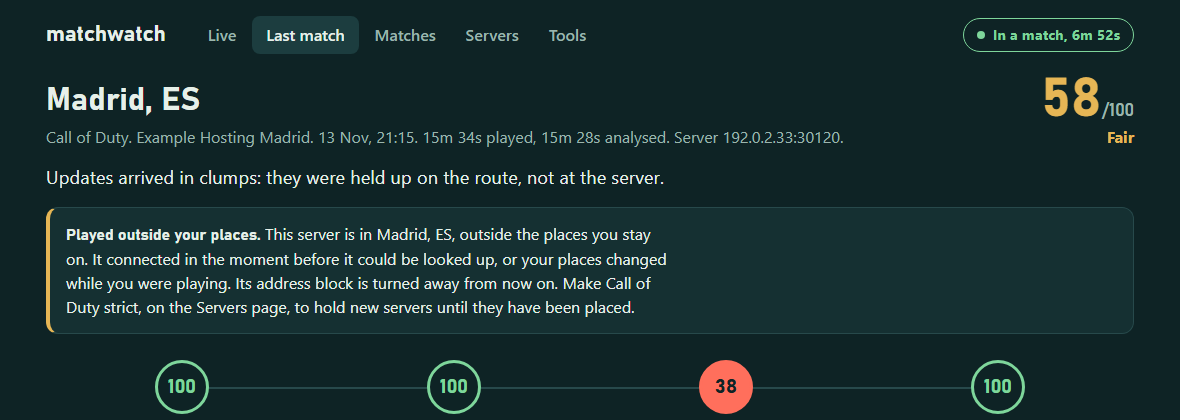
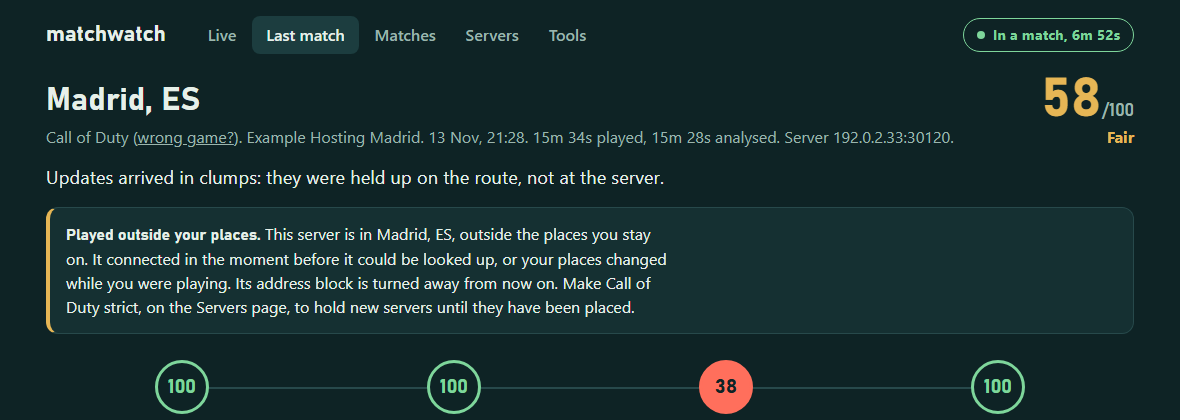
0.34.0: a Wrong game? link on every named match, longer name durations, five minutes as match mode's default wait

Changed region(s): [[0.0915, 0.3095, 0.8237, 0.3405]]

diff --git a/luci-app-matchwatch/htdocs/luci-static/resources/matchwatch/dashboard.js b/luci-app-matchwatch/htdocs/luci-static/resources/matchwatch/dashboard.js
@@ -28,7 +28,7 @@ var page = "", pageArg = "", armed = 0, view = shadow.getElementById("view");
 // another, MatchWatch has been updated under this page: the browser's stored copies of the dashboard
 // files are fetched afresh, which replaces them, and the page reloads itself. Without this an updated
 // router kept showing the old dashboard until the browser happened to let go of it.
-var BUILT = "0.33.0", reloading = false;
+var BUILT = "0.34.0", reloading = false;
 function freshReload() {
 	var urls = {}, go = function () { location.reload(); };
 	try { performance.getEntriesByType("resource").forEach(function (e) { if (/\/matchwatch\/[^?]*\.(js|css)(\?|$)/.test(e.name)) urls[e.name] = 1; }); } catch (e) {}
@@ -540,14 +540,20 @@ function liveLabel(s) {
 function liveGame(s) {
 	var lg = liveLabel(s);
 	if (!lg || !lg.name) return "";
-	if (!sharedLabel(lg.name)) return lg.name + ". ";
+	if (!sharedLabel(lg.name)) return (lg.as || lg.name) + ". ";
 	if (lg.as) return lg.as + ", on " + netWords(lg.name) + ". ";
 	return (/^Steam games/.test(lg.name) ? "A Steam game" : lg.name) + ". ";
 }
 function netWords(label) { return /^Steam games/.test(label) ? "Steam's network" : "a network several games share"; }
 // current: the name this match has now. until: when a name that carries on runs out (0 = never, null = none carrying on)
+// The box for saying which game a match really was.
+// current: the name this match has now. until: when a name that carries on runs out (0 = never, null = none carrying on).
+// For a network several games share it is the only way to know the game, so the box is always shown and the name
+// carries on for a day unless told otherwise. For any other label it is a correction, reached by a small
+// "Wrong game?" link, and it applies to that one match unless the owner asks for longer.
 function gamePick(start, label, current, until) {
-	var box = h("div", { cls: "gamepick" }), used = [], net = netWords(label), hours = 6;
+	var shared = sharedLabel(label), plain = /^Steam games/.test(label) ? "Steam games" : label;
+	var box = h("div", { cls: "gamepick" }), used = [], hours = 0;
 	D.hist.forEach(function (m) { if (m.label === label && m.game && m.game !== label && m.game !== current && used.indexOf(m.game) < 0) used.push(m.game); });
 	var inp = h("input", { type: "text", maxlength: "40", placeholder: "Which game is this?", autocomplete: "off", "aria-label": "The game this match was" });
 	inp.value = current || "";
@@ -557,26 +563,50 @@ function gamePick(start, label, current, until) {
 		api("matchgame", start, "&name=" + v + (hrs === "" || hrs == null ? "" : "&days=" + hrs)).then(function (j) {
 			Array.prototype.forEach.call(box.querySelectorAll("button"), function (b) { b.disabled = false; });
 			toast(j.out || j.error || "That did not work.", !j.ok);
-			if (j.ok) { inp.value = ""; L.gameKey = null; refresh(true); }
+			if (j.ok) { inp.value = ""; L.gameKey = null; L.gameOpen = null; refresh(true); }
 		});
 	};
-	// how long the name carries on to later matches on the same network
-	var spans = [[0, "This match only"], [6, "The next 6 hours"], ["", "Until I change it"]], sbox = h("div", { cls: "choice", role: "group", "aria-label": "Use this name for" });
-	var setSpan = function (v) { hours = v; Array.prototype.forEach.call(sbox.children, function (b) { b.setAttribute("aria-pressed", b.getAttribute("data-h") === String(v) ? "true" : "false"); }); };
+	// how long the name carries on to later matches under the same label
+	var spans = [[0, "This match only"], [24, "1 day"], [720, "1 month"], ["", "Until I change it"]], sbox = h("div", { cls: "choice", role: "group", "aria-label": "Use this name for" }), shint = h("small");
+	var setSpan = function (v) {
+		hours = v;
+		Array.prototype.forEach.call(sbox.children, function (b) { b.setAttribute("aria-pressed", b.getAttribute("data-h") === String(v) ? "true" : "false"); });
+		shint.textContent = v === 0 ? "Only this match is renamed. Your other matches keep the name MatchWatch gives them."
+			: "Every match MatchWatch would file under \"" + plain + "\" is recorded under your name " + (v === "" ? "from now until you change it." : v === 24 ? "for the next day, then it goes back." : "for the next month, then it goes back.");
+	};
 	spans.forEach(function (x) { var b = h("button", { type: "button", text: x[1], "data-h": String(x[0]) }); b.addEventListener("click", function () { setSpan(x[0]); }); sbox.appendChild(b); });
-	setSpan(until === 0 ? "" : 6);
+	setSpan(until === 0 ? "" : shared ? 24 : 0);
 	var save = h("button", { type: "button", cls: current ? "" : "solid", text: current ? "Change" : "Save" });
 	save.addEventListener("click", function () { if (!inp.value.trim()) { inp.focus(); return; } send(inp.value, hours); });
 	inp.addEventListener("keydown", function (e) { if (e.key === "Enter") save.click(); });
 	var row = h("div", { cls: "stayform" }, inp, save);
 	used.slice(0, 4).forEach(function (g) { var b = h("button", { type: "button", text: g }); b.addEventListener("click", function () { send(g, hours); }); row.appendChild(b); });
-	if (current) { var back = h("button", { type: "button", text: "Back to " + (/^Steam games/.test(label) ? "Steam games" : "the shared name") }); back.addEventListener("click", function () { send("", ""); }); row.appendChild(back); }
-	var lasts = until == null ? "" : until === 0 ? " Matches there keep this name until you change it." : " Matches there keep this name until " + when(until) + ", then MatchWatch asks again.";
-	box.appendChild(h("p", { cls: "note" }, current ? h("b", "Recorded as " + current + ". ") : h("b", "Which game is this? "),
-		current ? "It is on " + net + ", which many games use." + lasts : "It is on " + net + ", which many games use, so MatchWatch cannot tell them apart. Until you say, it is filed under \"" + (/^Steam games/.test(label) ? "Steam games" : label) + "\"."));
+	if (current) { var back = h("button", { type: "button", text: "Back to " + plain }); back.addEventListener("click", function () { send("", ""); }); row.appendChild(back); }
+	var lasts = until == null ? "" : until === 0 ? " Matches under that name keep it until you change it." : " Matches under that name keep it until " + when(until) + ".";
+	var why = shared ? "It is on " + netWords(label) + ", which many games use, so MatchWatch cannot tell them apart."
+		: "MatchWatch named it from the server's port, and ports are shared, so it can be wrong.";
+	box.appendChild(h("p", { cls: "note" }, current ? h("b", "Recorded as " + current + ". ") : h("b", shared ? "Which game is this? " : "Not " + plain + "? "),
+		current ? why + lasts : why + (shared ? " Until you say, it is filed under \"" + plain + "\"." : " Say which game it really was.")));
 	box.appendChild(row);
 	box.appendChild(h("div", { cls: "spanrow" }, h("span", "Use this name for"), sbox));
+	box.appendChild(shint);
+	box.appendChild(h("p", { cls: "note fine", text: "This changes the name only. Staying on places, strict and the lobby check still go by the server's port." + (shared ? "" : " If this port is always another game for you, add it under Tools, Games, which does change how it is filtered.") }));
 	return box;
+}
+// For a match whose name is not in doubt: nothing but a small link, which opens the box above
+// holder: where the box opens. Without one the link and the box share a line of their own; with one, the link
+// is returned bare, to sit inline beside the game's name, and the box opens in the holder.
+function gameFix(start, label, current, until, onOpen, holder) {
+	var wrap = holder || h("div", { cls: "gamefix" }), link = h("button", { type: "button", cls: "linkbtn", text: holder ? (current ? "renamed by you, change" : "wrong game?") : (current ? "Named " + current + " by you. Change" : "Wrong game?") });
+	link.addEventListener("click", function () {
+		if (holder) link.disabled = true;
+		wrap.textContent = ""; wrap.appendChild(gamePick(start, label, current, until));
+		if (onOpen) onOpen();
+		var f = wrap.querySelector("input"); if (f) f.focus();
+	});
+	if (holder) return link;
+	wrap.appendChild(link);
+	return wrap;
 }
 function waitWords(s) { return !s ? "as soon as a match ends" : (s < 90 ? s + " seconds" : Math.round(s / 60) + " minutes") + " after a match ends"; }
 // Match mode in a sentence: what QoSmate's speed limit is doing right now
@@ -625,12 +655,12 @@ function mmSpeeds(mm, again) {
 	};
 	none.addEventListener("click", function () { pick(false); }); some.addEventListener("click", function () { pick(true); });
 	// how soon after a match the between-matches speeds take over
-	var hold = mm.hold == null ? 30 : mm.hold, waits = [[0, "At once"], [30, "30 seconds"], [120, "2 minutes"], [300, "5 minutes"]], wbox = h("div", { cls: "choice", role: "group", "aria-label": "How soon after a match" }), whint = h("small");
+	var hold = mm.hold == null ? 300 : mm.hold, waits = [[0, "At once"], [30, "30 seconds"], [120, "2 minutes"], [300, "5 minutes"]], wbox = h("div", { cls: "choice", role: "group", "aria-label": "How soon after a match" }), whint = h("small");
 	if (!waits.some(function (w) { return w[0] === hold; })) waits.push([hold, waitWords(hold).replace(" after a match ends", "")]);
 	var setWait = function (s) {
 		hold = s;
 		Array.prototype.forEach.call(wbox.children, function (b) { b.setAttribute("aria-pressed", +b.getAttribute("data-s") === s ? "true" : "false"); });
-		whint.textContent = s === 0 ? "The moment MatchWatch sees the match has ended. If you queue again straight away, the speeds for playing come back as the next match starts." : (s <= 30 ? "A short wait, so a quick requeue does not flip the speeds back and forth." : "Long enough to cover the gap between matches, so a run of them stays at the speeds for playing.");
+		whint.textContent = s === 0 ? "The moment MatchWatch sees the match has ended. If you queue again straight away, the speeds for playing come back as the next match starts." : (s <= 30 ? "A short wait: fine if you play one match at a time. Queue again quickly and the speeds flip back as the next match starts." : "Long enough to cover the gap between matches, so a run of them stays at the speeds for playing.");
 	};
 	waits.forEach(function (w) { var b = h("button", { type: "button", text: w[1], "data-s": String(w[0]) }); b.addEventListener("click", function () { setWait(w[0]); }); wbox.appendChild(b); });
 	var rest = h("div", { cls: "speedcard" }, h("b", "Between matches"), h("div", { cls: "choice", role: "group", "aria-label": "Between matches" }, none, some), hint, rows,
@@ -647,7 +677,7 @@ function mmSpeeds(mm, again) {
 		if ((dl && !val.on_down) || !val.on_up || (limited && ((dl && !val.off_down) || !val.off_up))) { toast("Type a speed in every box first.", true); return; }
 		send([k("on_down", "down"), k("on_up", "up"), limited ? val.off_down : 0, limited ? val.off_up : 0, hold].join("/"), save);
 	});
-	reset.addEventListener("click", function () { send("0/0/0/0/30", reset); });
+	reset.addEventListener("click", function () { send("0/0/0/0/300", reset); });
 	box.appendChild(h("div", { cls: "speedgrid" }, play, rest));
 	box.appendChild(h("div", { cls: "actions" }, save, reset));
 	return box;
@@ -715,8 +745,14 @@ function updateLive() {
 	if (L.mm) L.mm.textContent = mmLine();
 	if (L.game) {
 		// a match on a network several games share: ask which game, once per match and whenever the answer changes
-		var lg = s && !RO ? liveLabel(s) : null, gk = lg && sharedLabel(lg.name) ? s.start + "|" + lg.name + "|" + (lg.as || "") + "|" + (lg.until || 0) : "";
-		if (gk !== L.gameKey && !(L.game.querySelector("input") && L.game.querySelector("input").value && gk)) { L.gameKey = gk; L.game.textContent = ""; if (gk) L.game.appendChild(gamePick(s.start, lg.name, lg.as || "", lg.as ? (lg.until || 0) : null)); }
+		var lg = s && !RO ? liveLabel(s) : null, named = lg && lg.name && !/^Game on port/.test(lg.name);
+		var gk = named ? s.start + "|" + lg.name + "|" + (lg.as || "") + "|" + (lg.until || 0) : "";
+		// left alone while its box is open or being typed in, so a refresh does not close it under the owner
+		if (gk !== L.gameKey && !(gk && (L.gameOpen === s.start || (L.game.querySelector("input") && L.game.querySelector("input").value)))) {
+			L.gameKey = gk; L.gameOpen = null; L.game.textContent = "";
+			if (gk && sharedLabel(lg.name)) L.game.appendChild(gamePick(s.start, lg.name, lg.as || "", lg.as ? (lg.until || 0) : null));
+			else if (gk) L.game.appendChild(gameFix(s.start, lg.name, lg.as || "", lg.as ? (lg.until || 0) : null, function () { L.gameOpen = s.start; }));
+		}
 	}
 	if (!s) {
 		L.title.textContent = "No match in progress";
@@ -814,9 +850,16 @@ function pageMatch(id) {
 		var full = !!m; m = m || sum;
 		if (!m) { view.appendChild(h("h1", "That match is no longer on file")); return; }
 		var where = place(m) || m.ip, sc = cls(m.overall);
+		// the game's name, with a small link beside it for when MatchWatch has it wrong; the box opens under the heading
+		var gbox = h("div"), fixable = sum && !RO && sum.label && !sharedLabel(sum.label) && !/^Game on port/.test(sum.label);
+		var gname = sum && sum.game ? sum.game + (sum.label && sum.label !== sum.game ? ", on " + netWords(sum.label) : "") : "";
+		var subp = h("p", { cls: "sub" }, gname, fixable ? " (" : "", fixable ? gameFix(sum.start, sum.label, sum.game !== sum.label ? sum.game : "", null, null, gbox) : null, fixable ? ")" : "", gname ? ". " : "",
+			(m.org && m.org !== "-" ? m.org + ". " : "") + when(m.start) + ". " + mins(m.dur) + " played, " + mins(m.analysed) + " analysed. Server " + m.ip + ":" + m.port + ".");
 		view.appendChild(h("div", { cls: "head" },
-			h("div", null, h("h1", where), h("p", { cls: "sub", text: (sum && sum.game ? sum.game + (sum.label && sum.label !== sum.game ? ", on " + netWords(sum.label) : "") + ". " : "") + (m.org && m.org !== "-" ? m.org + ". " : "") + when(m.start) + ". " + mins(m.dur) + " played, " + mins(m.analysed) + " analysed. Server " + m.ip + ":" + m.port + "." })),
+			h("div", null, h("h1", where), subp),
 			h("div", { cls: "score" }, h("b", { cls: sc }, String(m.overall), h("small", "/100")), h("span", { cls: sc, text: grade(m.overall) }))));
+		view.appendChild(gbox);
+		if (sum && !RO && sharedLabel(sum.label)) gbox.appendChild(gamePick(sum.start, sum.label, sum.game !== sum.label ? sum.game : "", null));
 		view.appendChild(h("p", { cls: "lede", text: m.verdict }));
 		if (m.outside) {
 			// this match was played on a server outside the places being stayed on: say so, and why it was not turned away
@@ -839,7 +882,6 @@ function pageMatch(id) {
 		else a.appendChild(act("Block this server", "block", m.ip, { danger: true, confirm: "Confirm: block for " + (D.info.block_days || 14) + " days" }));
 		a.appendChild(star(m.ip, true));
 		if (!isBlocked(m.ip)) addIf(a, allowBtn(m.ip));
-		if (sum && !RO && sharedLabel(sum.label)) view.appendChild(gamePick(sum.start, sum.label, sum.game !== sum.label ? sum.game : "", null));
 		if (idx >= 0) a.appendChild(act("Remove this match", "forgetmatch", m.start, { confirm: "Confirm: remove this match", done: function (o) { toast(o); location.hash = "#/matches"; } }));
 		if (idx >= 0 && idx < D.hist.length - 1) a.appendChild(h("a", { href: "#/match/" + D.hist[idx + 1].start, text: "Earlier match" }));
 		if (idx > 0) a.appendChild(h("a", { href: "#/match/" + D.hist[idx - 1].start, text: "Later match" }));

diff --git a/luci-app-matchwatch/htdocs/luci-static/resources/matchwatch/dashboard.css b/luci-app-matchwatch/htdocs/luci-static/resources/matchwatch/dashboard.css
@@ -262,5 +262,12 @@ ol.steps li { margin: 8px 0; }
 .gamepick .note { margin: 0 0 10px; }
 .gamepick .note b { color: var(--ink); }
 .gamepick .stayform { max-width: none; }
+.gamepick > small { display: block; margin-top: 8px; color: var(--muted); font-size: 0.85rem; }
+.gamepick .note.fine { margin: 10px 0 0; font-size: 0.82rem; }
+.gamefix { margin: 4px 0 0; }
+button.linkbtn { background: none; border: 0; padding: 0; color: var(--muted); font: inherit; font-size: 0.85rem; text-decoration: underline; cursor: pointer; }
+button.linkbtn:hover { color: var(--pen); background: none; }
+.sub button.linkbtn { font-size: inherit; }
+button.linkbtn:disabled { text-decoration: none; cursor: default; opacity: 0.7; }
 .gamepick .spanrow { display: flex; align-items: center; gap: 10px; flex-wrap: wrap; margin-top: 10px; color: var(--muted); font-size: 0.88rem; }
 .gamepick .spanrow .choice { margin-top: 0; flex-wrap: wrap; }

diff --git a/test/mockshots.py b/test/mockshots.py
@@ -53,7 +53,7 @@ def build(site):
         s = {"server": 100, "route": 100, "line": 100, "pc": 100}
         if code in s: s[code] = max(2, overall - 20)
         p = round(ping + random.uniform(-0.4, 0.4), 1)
-        m = {"game": "Fortnite" if cc == "SE" else "Call of Duty", "start": start, "dur": dur, "analysed": dur - 6, "device": "192.168.1.50", "ip": ip, "port": 30120, "cc": cc, "city": city, "org": org, "asn": "AS64500",
+        m = {"game": "Fortnite" if cc == "SE" else "Call of Duty", "label": "Fortnite" if cc == "SE" else "Call of Duty", "start": start, "dur": dur, "analysed": dur - 6, "device": "192.168.1.50", "ip": ip, "port": 30120, "cc": cc, "city": city, "org": org, "asn": "AS64500",
              "tick": 20.1, "jit": 2.68 if code == "server" else round(random.uniform(0.2, 0.6), 2), "late": 2.78 if code == "server" else 0.03, "lost": 2.4 if code == "server" else round(random.uniform(0, 0.1), 2),
              "clump": 3.1 if code == "route" else 0.0, "freeze": 3 if code == "server" else 0, "rough": 51.0 if code == "server" else (18.0 if bad else 0.0), "uprate": 95.2, "upjit": 0.2,
              "hitch": 4 if code == "pc" else 0, "farkind": "server", "ping": p, "pingjit": 3.9 if code == "route" else 0.3, "pingloss": 1.5 if code == "route" else 0.0, "nearping": 3.7, "nearjit": 0.3, "nearloss": 0,
@@ -100,7 +100,7 @@ def build(site):
     blocks = [{"ip": DCS["mad"][5][0].rsplit(".", 1)[0] + ".0/24", "days": None, "reason": "stay"}, {"ip": "203.0.113.77", "days": 12, "reason": "manual"}]
     for s in servers: s["blocked"] = s["ip"] == "203.0.113.77"; s["in"] = s["cc"] in ("DE", "SE"); s["lat"], s["lon"] = {"DE": (50.11, 8.68), "SE": (59.33, 18.07), "ES": (40.42, -3.70)}[s["cc"]]
     out = {"history": hist, "servers": servers, "datacentres": dlist, "regions": rj, "blocklist": blocks,
-           "info": {"version": "0.33.0", "device": "192.168.1.50", "stay": "Germany + Sweden", "autoblock": False, "notify": True, "pc_score": True, "geo": True, "block_days": 14, "stays": ["Near Frankfurt 450 km", "Sweden"], "web": False, "qosmate": True, "away": 412, "allowed": ["192.0.2.150"], "lan_if": "br-lan", "wan_if": "pppoe-wan", "qos_if": "eth1", "port_warn": "", "pool": [{"n": 1, "name": "Near Frankfurt 450 km", "lat": 50.11, "lon": 8.68, "km": 450, "cc": ""}, {"n": 2, "name": "Sweden", "lat": None, "lon": None, "km": 0, "cc": "SE"}]}}
+           "info": {"version": "0.34.0", "device": "192.168.1.50", "stay": "Germany + Sweden", "autoblock": False, "notify": True, "pc_score": True, "geo": True, "block_days": 14, "stays": ["Near Frankfurt 450 km", "Sweden"], "web": False, "qosmate": True, "away": 412, "allowed": ["192.0.2.150"], "lan_if": "br-lan", "wan_if": "pppoe-wan", "qos_if": "eth1", "port_warn": "", "pool": [{"n": 1, "name": "Near Frankfurt 450 km", "lat": 50.11, "lon": 8.68, "km": 450, "cc": ""}, {"n": 2, "name": "Sweden", "lat": None, "lon": None, "km": 0, "cc": "SE"}]}}
     out["favourites"] = [servers[-1]["ip"], servers[-2]["ip"], servers[-4]["ip"]]
     out["mygames"] = [{"name": "Fortnite", "ports": "9000-9100", "kind": "", "hosts": ""}, {"name": "Call of Duty", "ports": "3074,30000-45000", "kind": "", "hosts": "vultr,as20473"}, {"name": "Not a game", "ports": "19306", "kind": "voice", "hosts": ""}]
     out["gameplaces"] = [
@@ -111,7 +111,7 @@ def build(site):
         {"game": "Call of Duty", "city": "Tokyo", "cc": "JP", "org": "Example Hosting Tokyo", "networks": 6, "nets": ["203.0.113.0/24"], "matches": 41, "rating": 88, "mine": False, "in": False},
         {"game": "Fortnite", "city": "Sydney", "cc": "AU", "org": "Example Hosting Sydney", "networks": 4, "nets": ["192.0.2.0/24"], "matches": 17, "rating": 92, "mine": False, "in": False}]
     out["hold"] = [{"name": "Call of Duty", "on": False, "ok": True, "ports": "3074 30000-45000", "host": True}, {"name": "Fortnite", "on": True, "ok": True, "ports": "9000-9100", "host": False}, {"name": "Roblox", "on": False, "ok": False, "ports": "49152-65535", "host": True}]
-    out["matchmode"] = {"on": True, "can": True, "state": "tight", "up": 18000, "down": 68000, "on_up": 16000, "on_down": 55000, "off_up": 19500, "off_down": 76000, "hold": 30}
+    out["matchmode"] = {"on": True, "can": True, "state": "tight", "up": 18000, "down": 68000, "on_up": 16000, "on_down": 55000, "off_up": 19500, "off_down": 76000, "hold": 300}
     out["coverage"] = {"hosts": "Vultr (Call of Duty)", "known": 441, "refusing": True, "refused": 412, "places": [{"name": "Germany", "ranges": 26}, {"name": "Sweden", "ranges": 2}], "suggest": []}
     out["shared"] = {"undo": True, "have": {"games": 3, "regions": 0, "places": 2, "ratings": 6},
                      "ratings": [{"p": "203.0.113.0/24", "n": 14, "avg": 38, "city": "Madrid", "cc": "ES", "org": "Example Hosting Madrid", "blocked": True},
@@ -187,11 +187,11 @@ ratings: 3 server rating(s) from someone else. They are shown to you and mention
 		if (p.action === "shareimport") out = `Added 2 game label(s). Ones for ports you had already named were left out.
 Took in 3 server rating(s). They are listed on the Tools page.`;
 		if (p.action === "linetest" || p.action === "trace") out = "1";
-		if (p.action === "updatecheck") out = "Version 0.24.0 is available. You have 0.33.0.";
+		if (p.action === "updatecheck") out = "Version 0.24.0 is available. You have 0.34.0.";
 		return Promise.resolve({ ok: true, out: out });
 	} });
 // for the Tools screenshots: press what a visitor would, so each picture shows a result
-setTimeout(function () { Array.prototype.forEach.call(document.getElementById("mw").shadowRoot.querySelectorAll("button"), function (x) { if (["Choose what to share", "Test my line", "Trace the route now", "Check for an update"].indexOf(x.textContent) >= 0) x.click(); }); }, 3000);
+setTimeout(function () { Array.prototype.forEach.call(document.getElementById("mw").shadowRoot.querySelectorAll("button"), function (x) { if (["Choose what to share", "Test my line", "Trace the route now", "Check for an update"].indexOf(x.textContent) >= 0 || (x.textContent === "wrong game?" && /shot=wronggame/.test(location.search))) x.click(); }); }, 3000);
 </script></body></html>""" % (RES, RES))
     global OUTSIDE
     OUTSIDE = [m for m in hist if m["cc"] == "ES"][0]["start"]
@@ -230,6 +230,9 @@ if __name__ == "__main__":
     # a match that was played outside the pool: just the top of its report, where that is said
     shoot(browser, f"#/match/{OUTSIDE}", f"{ROOT}/docs/outside.png", 2600)
     Image.open(f"{ROOT}/docs/outside.png").crop((0, 0, 1180, 420)).save(f"{ROOT}/docs/outside.png", optimize=True)
+    # the "Wrong game?" box, opened on a match report
+    shoot(browser, f"?shot=wronggame#/match/{bad}", f"{ROOT}/docs/wronggame.png", 2600)
+    Image.open(f"{ROOT}/docs/wronggame.png").crop((0, 0, 1180, 640)).save(f"{ROOT}/docs/wronggame.png", optimize=True)
     # match mode's two sets of speeds, on their own
     Image.open(f"{ROOT}/docs/update.png").crop((0, 780, 1180, 1560)).save(f"{ROOT}/docs/matchmode.png", optimize=True)
     # the map with what is let in, on its own

diff --git a/CLAUDE.md b/CLAUDE.md
@@ -1,6 +1,6 @@
 # matchwatch: notes for whoever works on this next
 
-matchwatch runs on an OpenWrt router and judges each online match: the game server, the route to it, the player's own line and their PC. It works from packet timing only and never alters game traffic. Version 0.33.0.
+matchwatch runs on an OpenWrt router and judges each online match: the game server, the route to it, the player's own line and their PC. It works from packet timing only and never alters game traffic. Version 0.34.0.
 
 ## Layout
 
@@ -45,7 +45,7 @@ Where each game plays (0.21.0): `report.awk` MODE `gameplaces` groups game and /
 
 Updating (0.22.0): `matchwatch update` reads `dist/version` from the raw GitHub address of `main` and compares; `update now` (action `update`, a slow tool writing `update.json`) downloads the installer, refuses it unless its SHA-256 matches that line, and runs it. It refuses during a match. Nothing is fetched until the owner asks. Whatever is pushed to `main` in `dist/` is what every router installs, so never push a `dist/` that has not been installed on the test router first. The installer writes each file as `<name>.new` and moves it into place, because the updater runs from the script being replaced. `MW_UPDATE_URL` points it elsewhere for tests, with `MW_ROOT` so the installer writes into a sandbox.
 
-Which game (0.32.0): the owner played a new Steam game and got no new-game prompt, because Steam's network (27000-27200) already has a label and every game on it looks the same from the router. `matchwatch matchgame <start> [name]` (action `matchgame`, the name in `name`) writes `matchgames` (start, name; newest 5,000) and `playing` (label, name, since, until; until 0 is for good), and `named()` in `report.awk` uses them: a match's own name first, then the label's standing name for matches that started after it was set and before it runs out, then the label. The owner was unsure how long a name should hold, so the dashboard asks: this match only, six hours (the default) or until changed (`days` carries the hours; 0 is this match only and nothing is for good). `report.awk` finds both files beside `games.local`. `history.json` carries `label` as well as `game`, and `hold.json` carries `as`, the standing name while it holds, and `until`. `status.json` carries each live session's `game` (the engine's `gamename`, which checks the host), and the Live page words it with `liveGame`: the label, the standing name, or "A Steam game". The dashboard asks on the Live page and the match report for labels `sharedLabel()` accepts ("Steam games..." and names with " or "). It renames only: `kindof`, the lobby check and strict still go by the label. Tested against the owner's history with invented Steam rows; not yet used on a real match.
+Which game (0.32.0): the owner played a new Steam game and got no new-game prompt, because Steam's network (27000-27200) already has a label and every game on it looks the same from the router. `matchwatch matchgame <start> [name]` (action `matchgame`, the name in `name`) writes `matchgames` (start, name; newest 5,000) and `playing` (label, name, since, until; until 0 is for good), and `named()` in `report.awk` uses them: a match's own name first, then the label's standing name for matches that started after it was set and before it runs out, then the label. The owner was unsure how long a name should hold, so the dashboard asks: this match only, 1 day, 1 month or until changed (`days` carries the hours; 0 is this match only and nothing is for good). Since 0.34.0 the same box is offered for any named match behind a small "Wrong game?" link (`gameFix`), on the Live page and the match report, because a port alone can name the wrong game. There the default is this match only: a standing name is keyed by label, so renaming one Call of Duty match for a month would rename every match under that label. For a shared network the box is always shown and the default is 1 day. `report.awk` finds both files beside `games.local`. `history.json` carries `label` as well as `game`, and `hold.json` carries `as`, the standing name while it holds, and `until`. `status.json` carries each live session's `game` (the engine's `gamename`, which checks the host), and the Live page words it with `liveGame`: the label, the standing name, or "A Steam game". The dashboard asks on the Live page and the match report for labels `sharedLabel()` accepts ("Steam games..." and names with " or "). It renames only: `kindof`, the lobby check and strict still go by the label. Tested against the owner's history with invented Steam rows; not yet used on a real match.
 
 Reasons and grades (0.22.1): the engine notes every deduction as it scores (`why_add`) and writes the largest one or two per part into the match detail as `why` (`server`, `route`, `line`, `pc`); the dashboard prints them under the four scores. Matches from before 0.22.1 have none. Change a scoring formula and its `why_add` line together, and the table in the README. Tests get letters in the dashboard only: `letter(score)` for the line test (`score` in `linetest.json`), `pingLetter(ms)` for a trace and the region table.
 
@@ -55,7 +55,7 @@ The map (0.24.0): `mapSection` on the Servers page. Leaflet 1.9.4 ships in the i
 
 Strict games (0.25.0, called hold in the code because `STAY_STRICT` was taken): `/etc/matchwatch/hold` lists game names (`matchwatch strict on|off <game>`, actions `holdon`/`holdoff` with the game in `name`). nftables gets `hold_ports` (those games' server ports, minus every voice label's ports) and `okay` (servers with a verdict), and one rule after the others: the device's UDP to a held port is dropped unless the server is in `okay`. The engine listens on the LAN side, so it still sees the dropped packet: `hold_seen` asks `matchwatch _hold <ip> <port>` on the first packet out, again every 4 s while nothing comes back, and stops once a reply is seen. `cmd_hold_check` lets through anything allowed, unplaceable, not labelled a game, or in the address block of a match in progress, and blocks the /24 of a game server outside the pool. `hold_apply` flushes both sets, writes `$RUN/hold.ports` (first line a serial; the engine drops its memory when it changes), waits two seconds so the engine has the ports first, then fills `hold_ports`; it runs on every pool change and at service start (six seconds after the engine). It must fail open: the init script's `stop_service` flushes `hold_ports`, and so does the start of `run`. A game is only offered when at least half its ports are left after voice ports are cut out (Roblox is not). Seen on the owner's router: the rule and sets in the live firewall, released on stop, back after start, fully undone. Not yet seen: a real new server being held and judged during matchmaking.
 
-Match mode (0.30.0, off by default, `match_mode`): QoSmate's cake limit on during matches and lifted between them. `mm_set tight` runs `tc qdisc change dev <wan> root cake bandwidth <UPRATE>kbit` (and `ifb-<wan>` with `DOWNRATE`), `mm_set loose` runs `... cake unlimited`; note it is `cake unlimited`, not `bandwidth unlimited`, which tc rejects. A change keeps every other cake option and needs no QoSmate restart; QoSmate's uci settings are read and never written. Tight is asked for by `cmd_lobby` and `_probe_start`; `cmd_after` starts `mm_later`, which switches after `MM_HOLD` if no match or candidate is in `status.json` and no newer stamp has been written (`mm.stamp`). It must fail tight: `run` starts tight and lifts after a minute, the init script's `stop_service` calls `_mmstop`, and switching it off sets tight. `matchmode.json` carries the state for the Live page and the Tools row. Since 0.31.0 the owner chooses the speeds ("don't always auto decide for people"): `mm_on_down`, `mm_on_up` (while playing; empty follows QoSmate's own rate), `mm_off_down`, `mm_off_up` (between matches; empty is no limit) and `mm_hold` (seconds after a match before switching, 30 by default because the owner found five minutes far too long; 0 is at once, though never under three seconds so the engine has written that the match is over). `matchwatch matchmode speeds` and the action `matchmodeset` (`a/b/c/d[/hold]` in kbit) save them and put them to work at once. `mm_set` has three targets: `tight`, `loose` and `own`, the last being QoSmate's own rates, used on stop and off. The Tools row has a panel (`mmSpeeds`): a number box and a slider per speed, the slider in percent of QoSmate's own rate. Never trust `mm.state` alone (0.32.2): the owner ran a speed test between matches and got the limited speed, because QoSmate had been restarted overnight, which puts its own rates back, while `mm.state` still said `loose` and `mm_set loose` returned early. `mm_same` now reads the rate cake really has (`mm_actual`, from `tc qdisc show`), `mm_set` only skips when the queues agree, and the service runs `matchwatch _mmcheck` once a minute to set the speeds again when something outside has moved them. QoSmate's own speeds come from the queues (0.32.3, `mm_own`): a friend of the owner saw no speeds at all. QoSmate fills missing options from its defaults file and caps DOWNRATE at BWMAXRATIO times UPRATE, so `qosmate.settings.UPRATE/DOWNRATE` can be empty or differ from what is in force; a rate of 0 there means that direction is not shaped (no cake at all). `mm_own` reads `tc` whenever the queues are as QoSmate left them (no `mm.state`), remembers the answer in `/etc/matchwatch/mm.own`, learns again when `mm_check` sees an outside change, and falls back to uci last. `run` restores QoSmate's speeds first if `mm.state` survived an unclean stop. `mm_why` names the reason match mode cannot work (`noqos`, `disabled`, `notcake`, `autorate`, `noqueue`); QoSmate's autorate service rewrites the same bandwidth several times a second, so match mode refuses while it is on. QoSmate's port, not OpenWrt's (0.32.4, `qos_dev`, `QWAN`): the same friend then got "QoSmate has no speed limit on the internet port" with cake running. MatchWatch was looking at `WAN_IF` (what `network_find_wan` gives, `pppoe-wan` on a PPPoE line) while QoSmate shapes `qosmate.settings.WAN`, which can be the physical port underneath or the reverse. Everything that reads or changes QoSmate's queues (match mode, the per-match queue record, the priority check's counters) now uses `QWAN`: QoSmate's setting when that port exists, else `WAN_IF`; the downloads queue is `ifb-$QWAN`. Packet capture for the priority check stays on `WAN_IF`. Cake modes only. The owner wants QoSmate credited: say that QoSmate does the prioritising wherever this is described. Seen on the owner's router: a full on, lifted, limits back, off cycle on the live queues, every cake option identical afterwards and QoSmate's settings untouched. Not yet seen: a real match switching it.
+Match mode (0.30.0, off by default, `match_mode`): QoSmate's cake limit on during matches and lifted between them. `mm_set tight` runs `tc qdisc change dev <wan> root cake bandwidth <UPRATE>kbit` (and `ifb-<wan>` with `DOWNRATE`), `mm_set loose` runs `... cake unlimited`; note it is `cake unlimited`, not `bandwidth unlimited`, which tc rejects. A change keeps every other cake option and needs no QoSmate restart; QoSmate's uci settings are read and never written. Tight is asked for by `cmd_lobby` and `_probe_start`; `cmd_after` starts `mm_later`, which switches after `MM_HOLD` if no match or candidate is in `status.json` and no newer stamp has been written (`mm.stamp`). It must fail tight: `run` starts tight and lifts after a minute, the init script's `stop_service` calls `_mmstop`, and switching it off sets tight. `matchmode.json` carries the state for the Live page and the Tools row. Since 0.31.0 the owner chooses the speeds ("don't always auto decide for people"): `mm_on_down`, `mm_on_up` (while playing; empty follows QoSmate's own rate), `mm_off_down`, `mm_off_up` (between matches; empty is no limit) and `mm_hold` (seconds after a match before switching; 300 by default since 0.34.0: the owner first found a fixed five minutes too long, then, with a choice on offer, found a 30-second default too quick; 0 is at once, though never under three seconds so the engine has written that the match is over). `matchwatch matchmode speeds` and the action `matchmodeset` (`a/b/c/d[/hold]` in kbit) save them and put them to work at once. `mm_set` has three targets: `tight`, `loose` and `own`, the last being QoSmate's own rates, used on stop and off. The Tools row has a panel (`mmSpeeds`): a number box and a slider per speed, the slider in percent of QoSmate's own rate. Never trust `mm.state` alone (0.32.2): the owner ran a speed test between matches and got the limited speed, because QoSmate had been restarted overnight, which puts its own rates back, while `mm.state` still said `loose` and `mm_set loose` returned early. `mm_same` now reads the rate cake really has (`mm_actual`, from `tc qdisc show`), `mm_set` only skips when the queues agree, and the service runs `matchwatch _mmcheck` once a minute to set the speeds again when something outside has moved them. QoSmate's own speeds come from the queues (0.32.3, `mm_own`): a friend of the owner saw no speeds at all. QoSmate fills missing options from its defaults file and caps DOWNRATE at BWMAXRATIO times UPRATE, so `qosmate.settings.UPRATE/DOWNRATE` can be empty or differ from what is in force; a rate of 0 there means that direction is not shaped (no cake at all). `mm_own` reads `tc` whenever the queues are as QoSmate left them (no `mm.state`), remembers the answer in `/etc/matchwatch/mm.own`, learns again when `mm_check` sees an outside change, and falls back to uci last. `run` restores QoSmate's speeds first if `mm.state` survived an unclean stop. `mm_why` names the reason match mode cannot work (`noqos`, `disabled`, `notcake`, `autorate`, `noqueue`); QoSmate's autorate service rewrites the same bandwidth several times a second, so match mode refuses while it is on. QoSmate's port, not OpenWrt's (0.32.4, `qos_dev`, `QWAN`): the same friend then got "QoSmate has no speed limit on the internet port" with cake running. MatchWatch was looking at `WAN_IF` (what `network_find_wan` gives, `pppoe-wan` on a PPPoE line) while QoSmate shapes `qosmate.settings.WAN`, which can be the physical port underneath or the reverse. Everything that reads or changes QoSmate's queues (match mode, the per-match queue record, the priority check's counters) now uses `QWAN`: QoSmate's setting when that port exists, else `WAN_IF`; the downloads queue is `ifb-$QWAN`. Packet capture for the priority check stays on `WAN_IF`. Cake modes only. The owner wants QoSmate credited: say that QoSmate does the prioritising wherever this is described. Seen on the owner's router: a full on, lifted, limits back, off cycle on the live queues, every cake option identical afterwards and QoSmate's settings untouched. Not yet seen: a real match switching it.
 
 Ports (0.33.0): `ports_check` tests the three ports and prints `ok`, `note` or `WARN` lines, each saying where to correct it: `LAN_IF` (must exist; with a device chosen, must be the port `ip route get <device>` names), `WAN_IF` (must exist and be the default route's port), and `QWAN` (QoSmate's setting must name a real port with a cake, hfsc or htb queue on it). `cmd_doctor` prints them, `info.json` carries `lan_if`, `wan_if`, `qos_if` and `port_warn` (the warnings joined), the Tools page shows `port_warn` as a banner on every tab and lists the ports under Settings in use. The owner asked whether to add a port picker: no for QoSmate's port, because a second setting that can disagree with QoSmate's is what caused the bug; the LAN and WAN fields under Settings, Advanced, already exist for the other two. Tested in a sandbox and on the owner's router; the warnings themselves only against invented cases.
 

diff --git a/README.md b/README.md
@@ -1,6 +1,6 @@
 # MatchWatch
 
-**Judges every online match from your OpenWrt router — v0.33.0 (pre-release)**
+**Judges every online match from your OpenWrt router — v0.34.0 (pre-release)**
 
 > **OpenWrt only.** MatchWatch runs on a router with [OpenWrt](https://openwrt.org/) firmware and appears inside LuCI, OpenWrt's web interface. It does not run on Windows, macOS, a games console, or a router with its maker's stock firmware. Nothing is installed on your PC or console.
 
@@ -86,6 +86,10 @@ It works from packet timing only. Game traffic is never decoded, changed, delaye
 | Tools: checks, with grades | Tools: sharing |
 | --- | --- |
 | ![Tools](docs/tools.png) | ![Sharing](docs/share.png) |
+
+| "Wrong game?": correcting the name MatchWatch gave a match |
+| --- |
+| ![Wrong game](docs/wronggame.png) |
 
 | Match mode: the speeds while you play and between matches |
 | --- |
@@ -419,9 +423,18 @@ This list cannot be complete:
 
 Some games cannot be told apart from the router at all. Every game that uses Steam's own network reaches the same Valve servers on the same ports, so Counter-Strike 2, Dota 2 and a newly released indie shooter all look identical. MatchWatch files them under one label, "Steam games", and does not ask you to name anything, because the port already has a name.
 
-For a match under a label like that, the Live page and the match report ask **Which game is this?** Type the name and choose how long it should carry on: **this match only**, **the next 6 hours**, or **until I change it**. Six hours is the default, so an evening's matches take the name and the next session asks again, which stops a different Steam game being filed under last week's name. Names you have used before appear as buttons, so answering is one press, and **Back to Steam games** removes a name. The Live page names the game under the server: "Call of Duty", or for an unnamed match on Valve's network, "A Steam game". Until you say which game it is, a match stays under "Steam games"; once named, its report reads "Wardogs, on Steam's network".
+For a match under a label like that, the Live page and the match report ask **Which game is this?** Type the name and choose how long it should carry on: **this match only**, **1 day**, **1 month**, or **until I change it**. One day is the default here, so an evening's matches take the name and tomorrow asks again, which stops a different Steam game being filed under last week's name. Names you have used before appear as buttons, so answering is one press, and **Back to Steam games** removes a name. The Live page names the game under the server: "Call of Duty", or for an unnamed match on Valve's network, "A Steam game". Until you say which game it is, a match stays under "Steam games"; once named, its report reads "Wardogs, on Steam's network".
 
 This only changes the name shown. Staying on places, strict and the lobby check still treat the match as a game on that network. From the command line: `matchwatch matchgame <match start> <name>`.
+
+### When MatchWatch names a game wrongly
+
+MatchWatch names a game from the server's port, and ports are shared, so now and then it will call a match by the wrong game. Beside the game's name, on the Live page and on every match report, is a small **Wrong game?** link. It opens the same box: type the real name and choose how long it applies.
+
+- **This match only** is the default. Your other matches keep the name MatchWatch gives them.
+- **1 day**, **1 month** or **until I change it** rename every match MatchWatch would file under that same name, for that long. Use these when the name is wrong for the way you play, not just once.
+- It changes the name only. Staying on places, strict and the lobby check still go by the server's port.
+- If a port is always another game for you, **Add a game** on the Tools page is the better tool: it gives the port its own name for good, and that does change how it is filtered.
 
 ### Games it does not recognise
 
@@ -550,7 +563,7 @@ A trace is one sample, so it shows how far a server is, not how steady the route
 |---|---|---|
 | **While you play** | The download and upload speeds QoSmate holds your line to during a match | QoSmate's own rates, and it follows them if you change them in QoSmate |
 | **Between matches** | The speeds for the rest of the time: no limit, or speeds you choose | No limit |
-| **Switch after a match** | How long after a match ends before the between-matches speeds take over: at once, 30 seconds, 2 minutes or 5 minutes | 30 seconds |
+| **Switch after a match** | How long after a match ends before the between-matches speeds take over: at once, 30 seconds, 2 minutes or 5 minutes | 5 minutes, long enough to cover the gap between matches |
 
 Each speed has a box to type megabits into and a slider beside it, kept in step. The slider works in percent of QoSmate's own rate, so "80%" means 80% of what you set in QoSmate. Nothing changes until you press **Save these speeds**, and **Back to QoSmate's own** undoes your choices.
 
